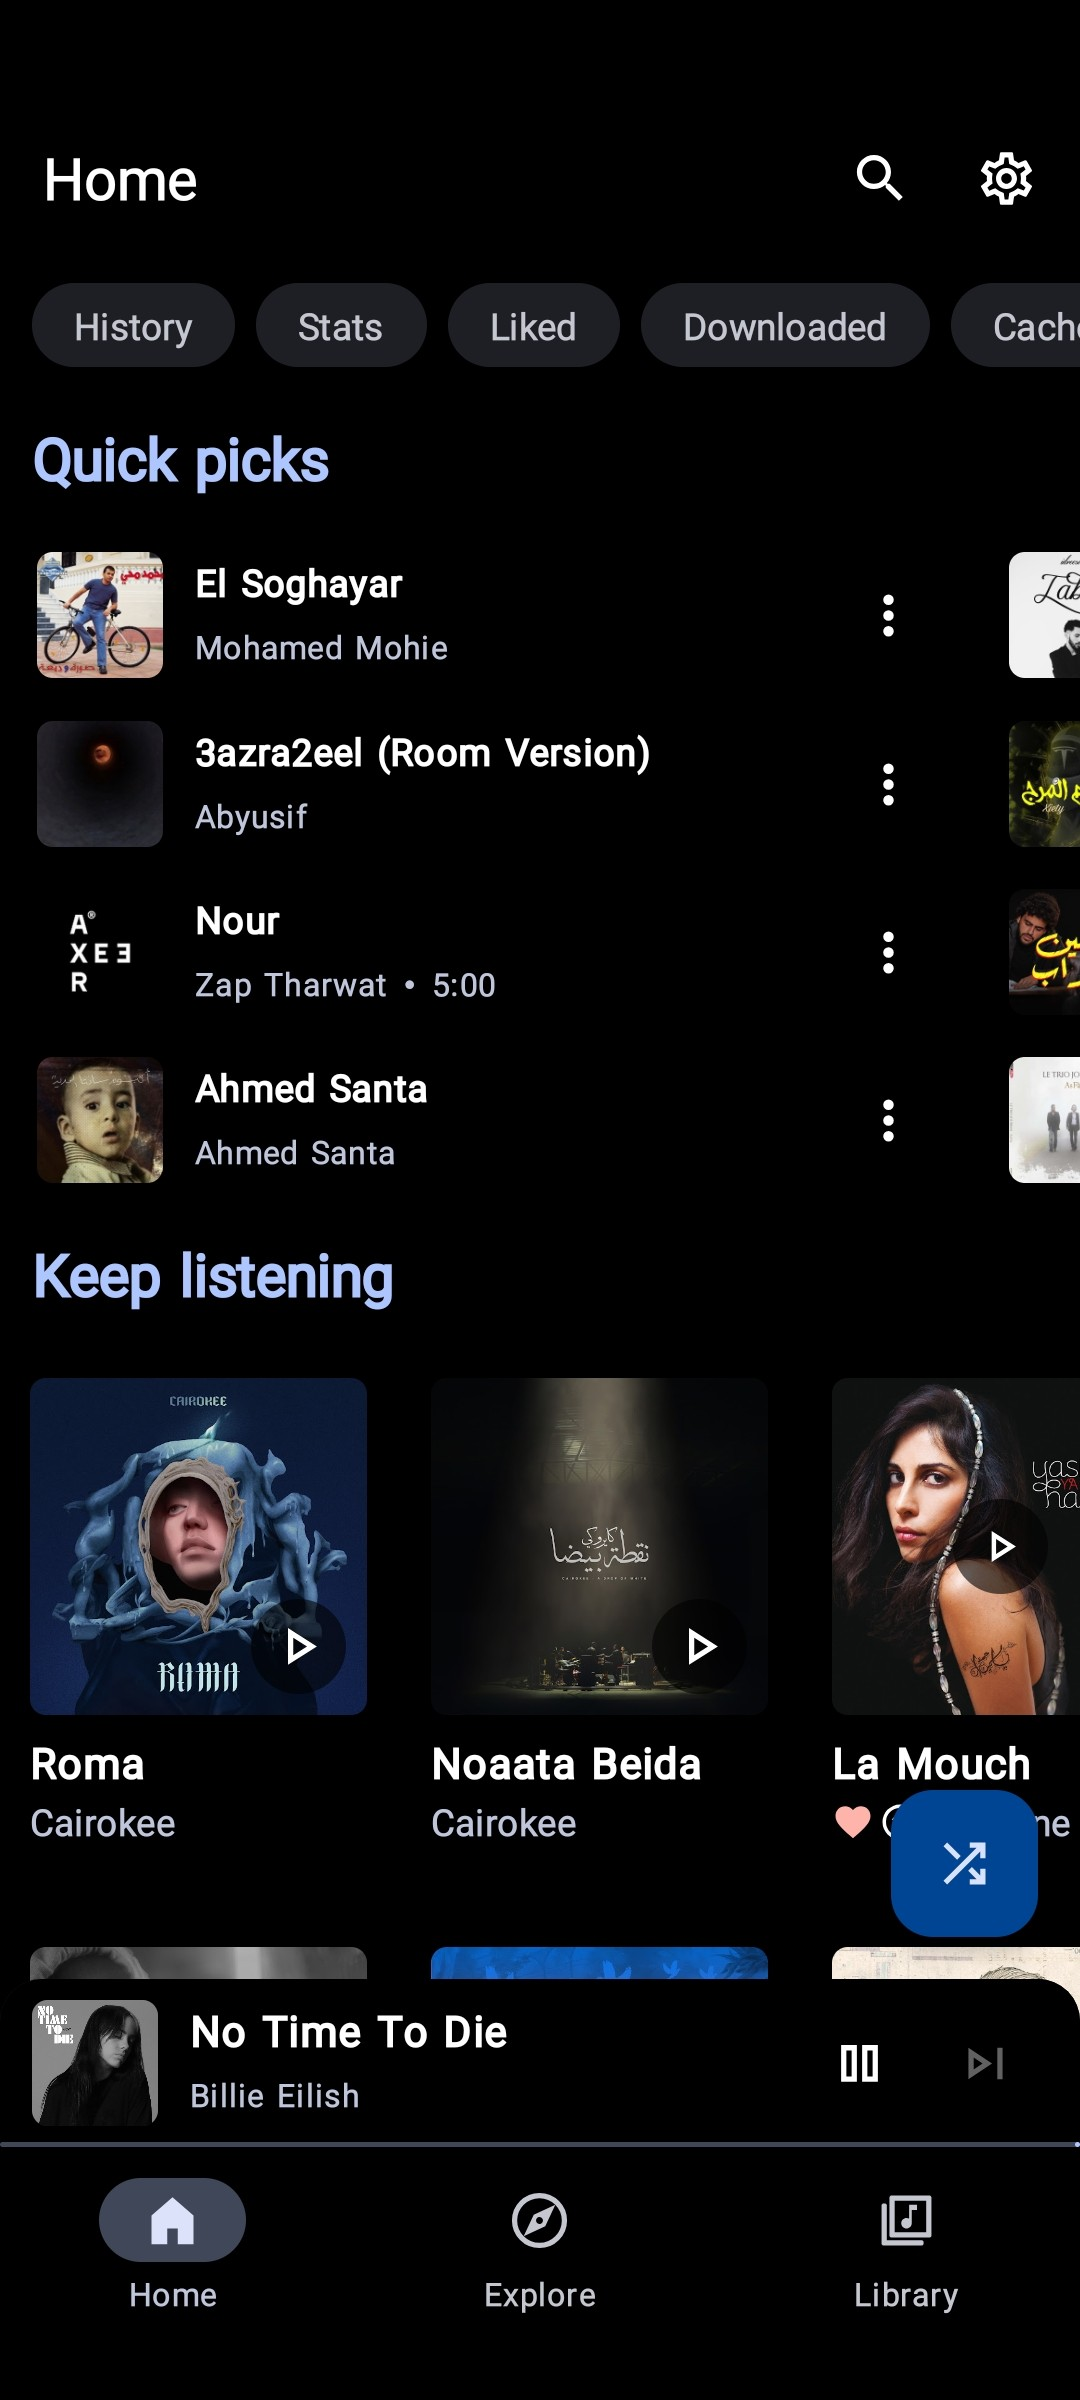
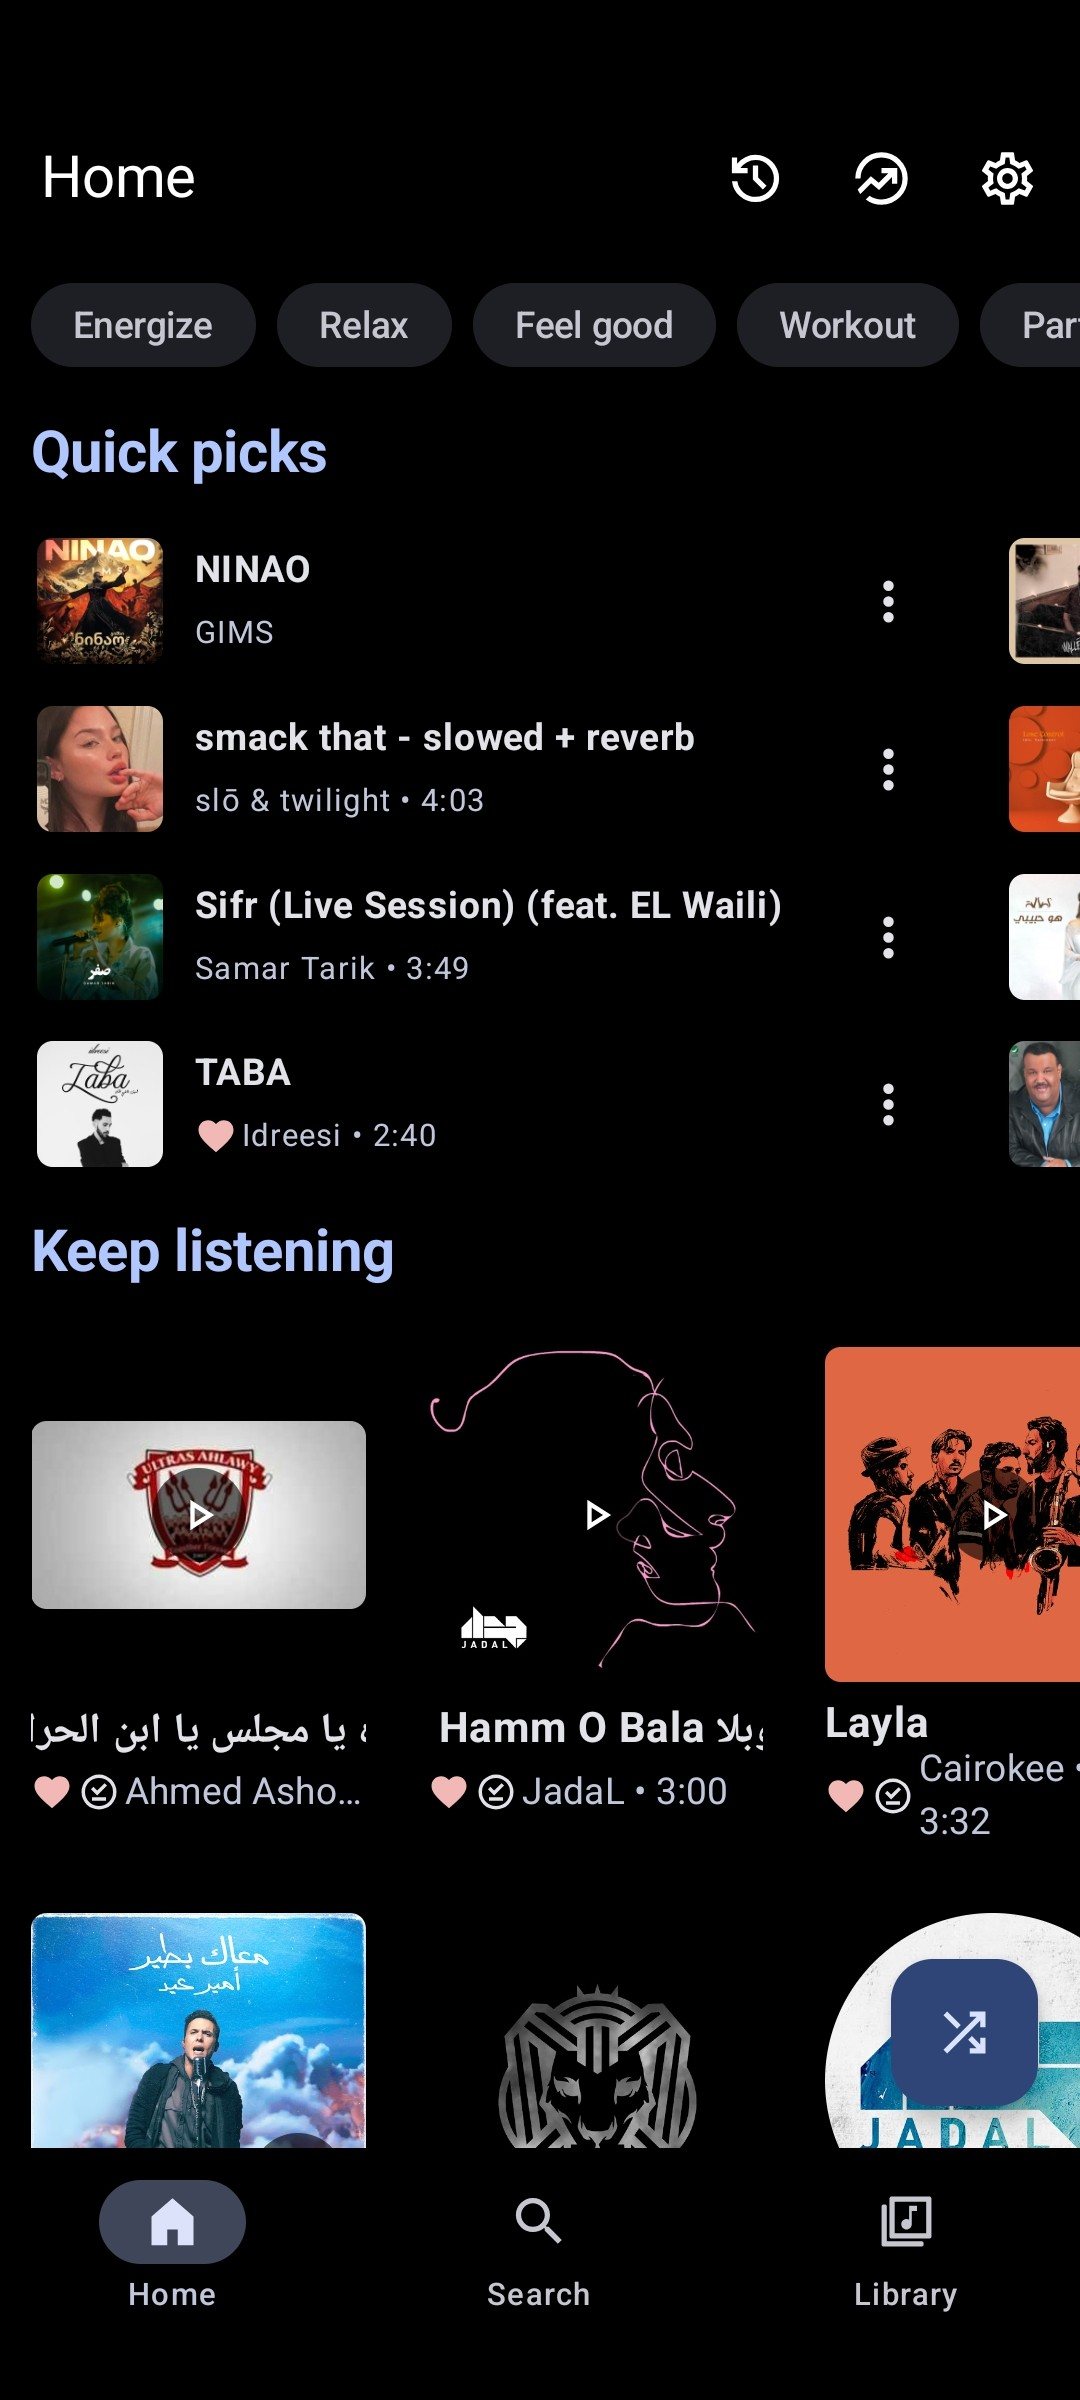
chore: add new TopAppBar and NavBar screenshots

diff --git a/README.md b/README.md
@@ -17,8 +17,6 @@
 <img
 src="https://github.com/mostafaalagamy/Metrolist/blob/main/fastlane/metadata/android/en-US/images/featureGraphic.png" width="91%" />
 
-<a href="https://trendshift.io/repositories/13518" target="_blank"><img src="https://trendshift.io/api/badge/repositories/13518" alt="mostafaalagamy%2FMetrolist | Trendshift" style="width: 250px; height: 55px;" width="250" height="55"/></a>
-
 [![Latest release](https://img.shields.io/github/v/release/mostafaalagamy/Metrolist?style=for-the-badge)](https://github.com/mostafaalagamy/Metrolist/releases)
 [![GitHub license](https://img.shields.io/github/license/mostafaalagamy/metrolist?style=for-the-badge)](https://github.com/mostafaalagamy/Metrolist/blob/main/LICENSE)
 [![Downloads](https://img.shields.io/github/downloads/mostafaalagamy/Metrolist/total?style=for-the-badge)](https://github.com/mostafaalagamy/Metrolist/releases)
